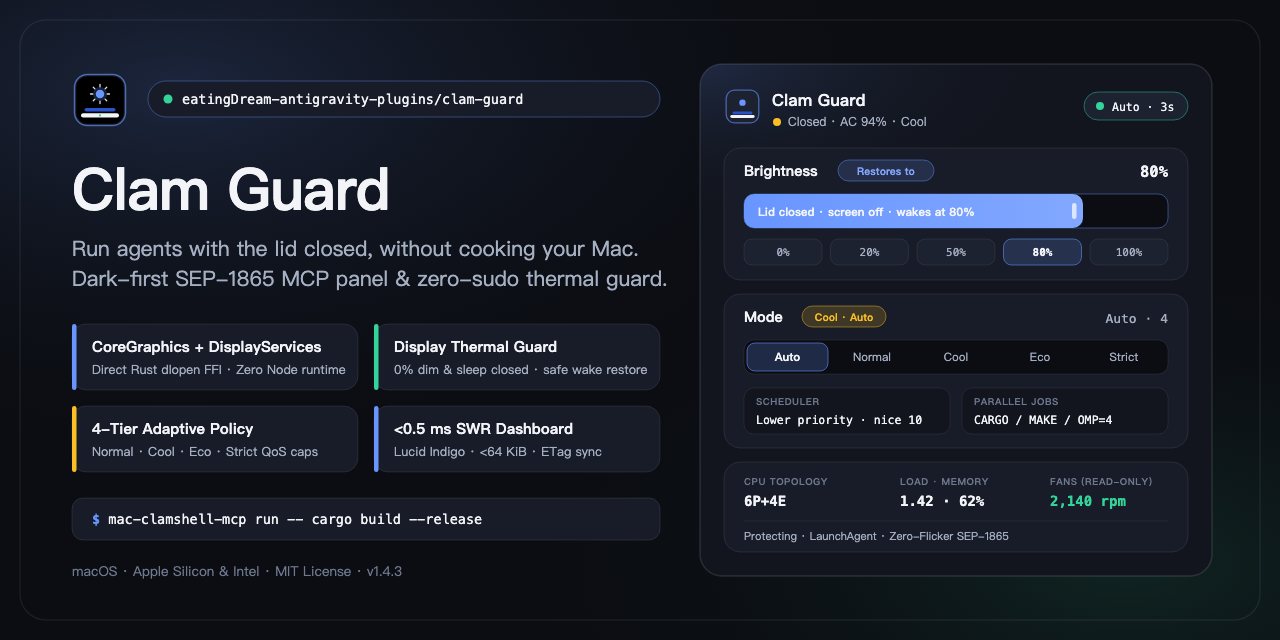
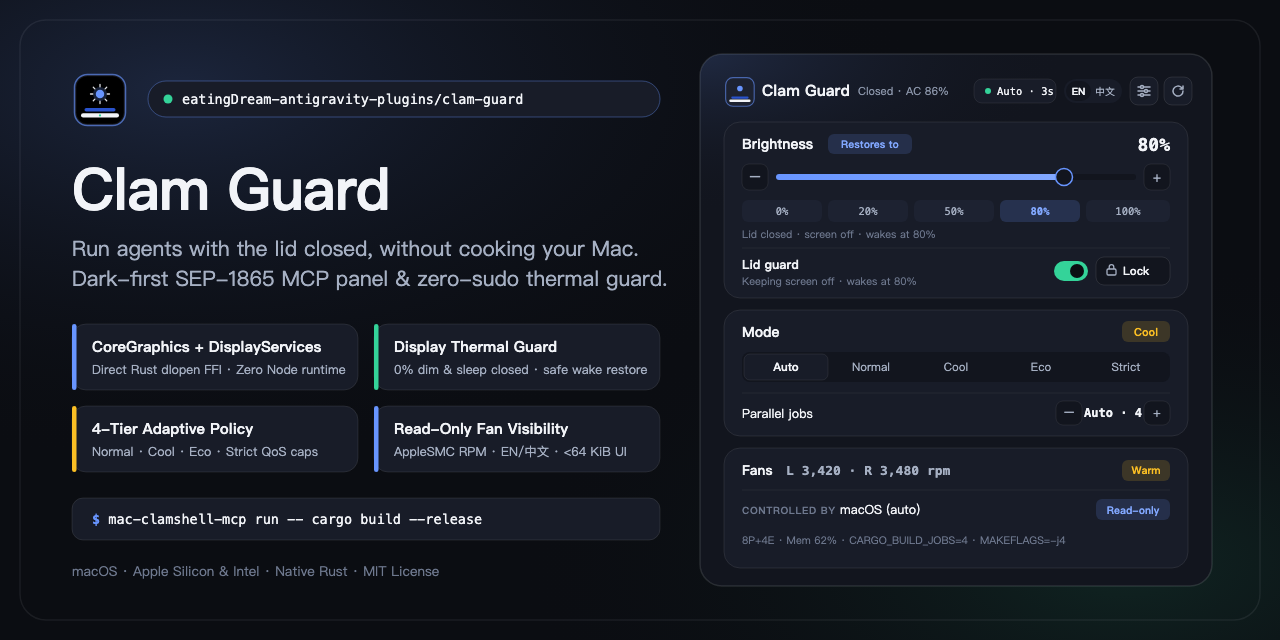
chore(docs): sync Wave 2 EN/ZH screenshots and evergreen social previews (#31)

diff --git a/README.zh-CN.md b/README.zh-CN.md
@@ -19,9 +19,9 @@ Clam Guard 能在你合上 MacBook 机盖时保持系统唤醒且内屏熄灭，
 <br>
 
 <picture>
-  <source media="(prefers-color-scheme: dark)" srcset="docs/images/clamguard-dashboard-dark.png">
-  <source media="(prefers-color-scheme: light)" srcset="docs/images/clamguard-dashboard-light.png">
-  <img src="docs/images/clamguard-dashboard-dark.png" alt="Clam Guard 实时控制面板截图，展示开合盖状态、供电与温控、内屏亮度控制、限流档位及只读风扇信息" width="640">
+  <source media="(prefers-color-scheme: dark)" srcset="docs/images/clamguard-dashboard-dark-zh.png">
+  <source media="(prefers-color-scheme: light)" srcset="docs/images/clamguard-dashboard-light-zh.png">
+  <img src="docs/images/clamguard-dashboard-dark-zh.png" alt="Clam Guard 实时控制面板截图，展示开合盖状态、供电与温控、内屏亮度控制、限流档位及只读风扇信息" width="640">
 </picture>
 
 </div>
